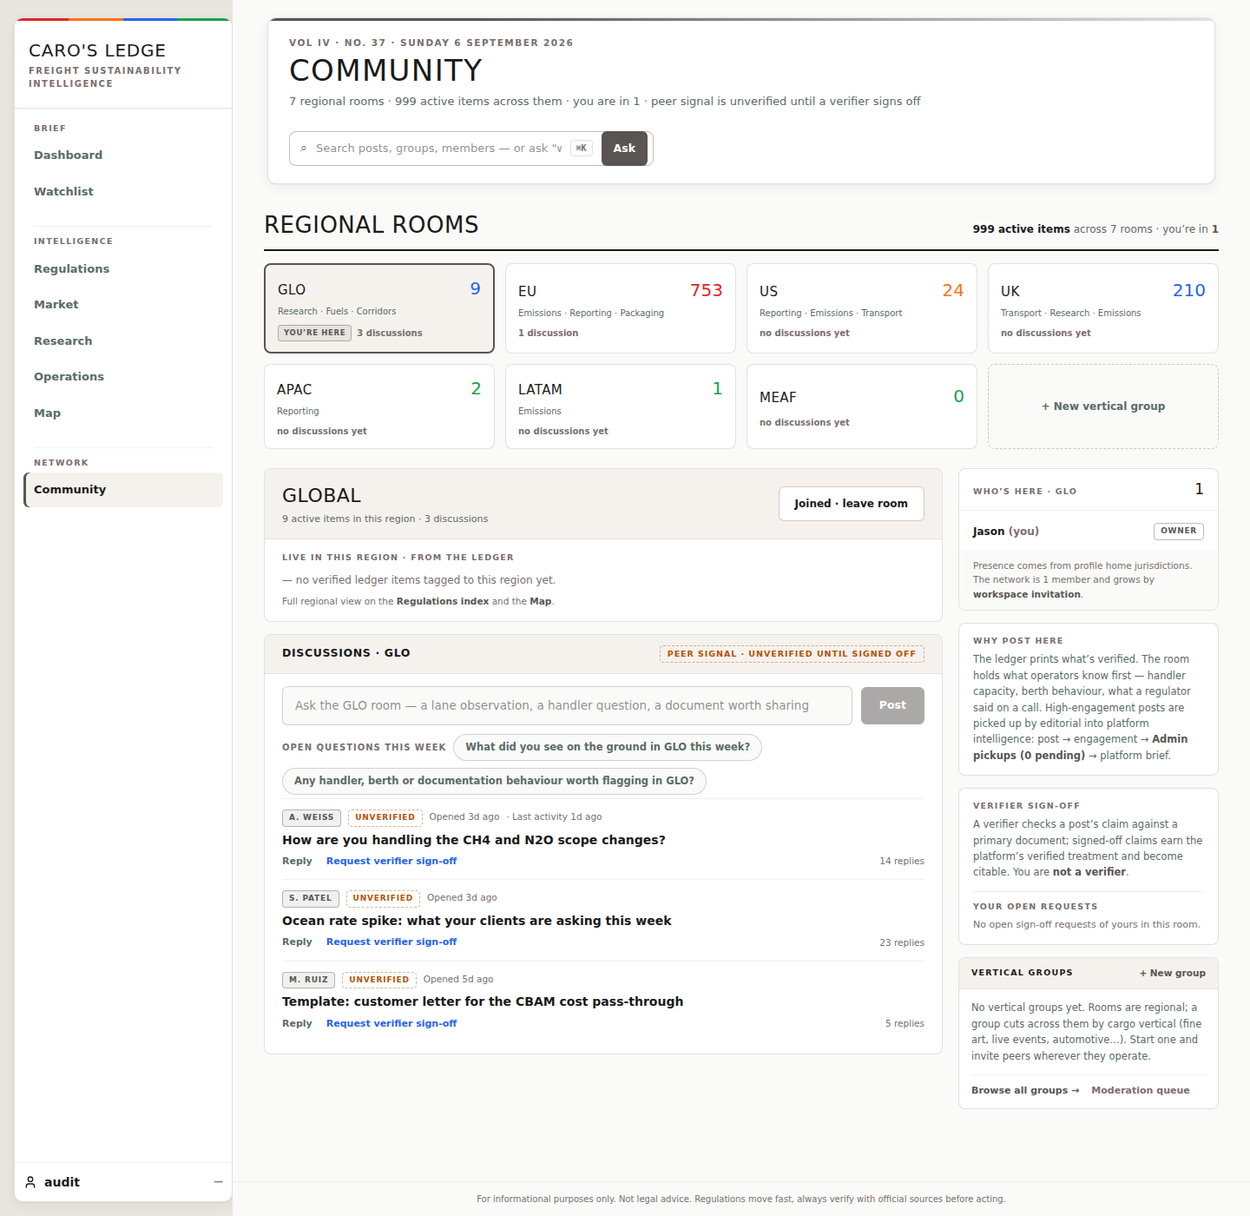
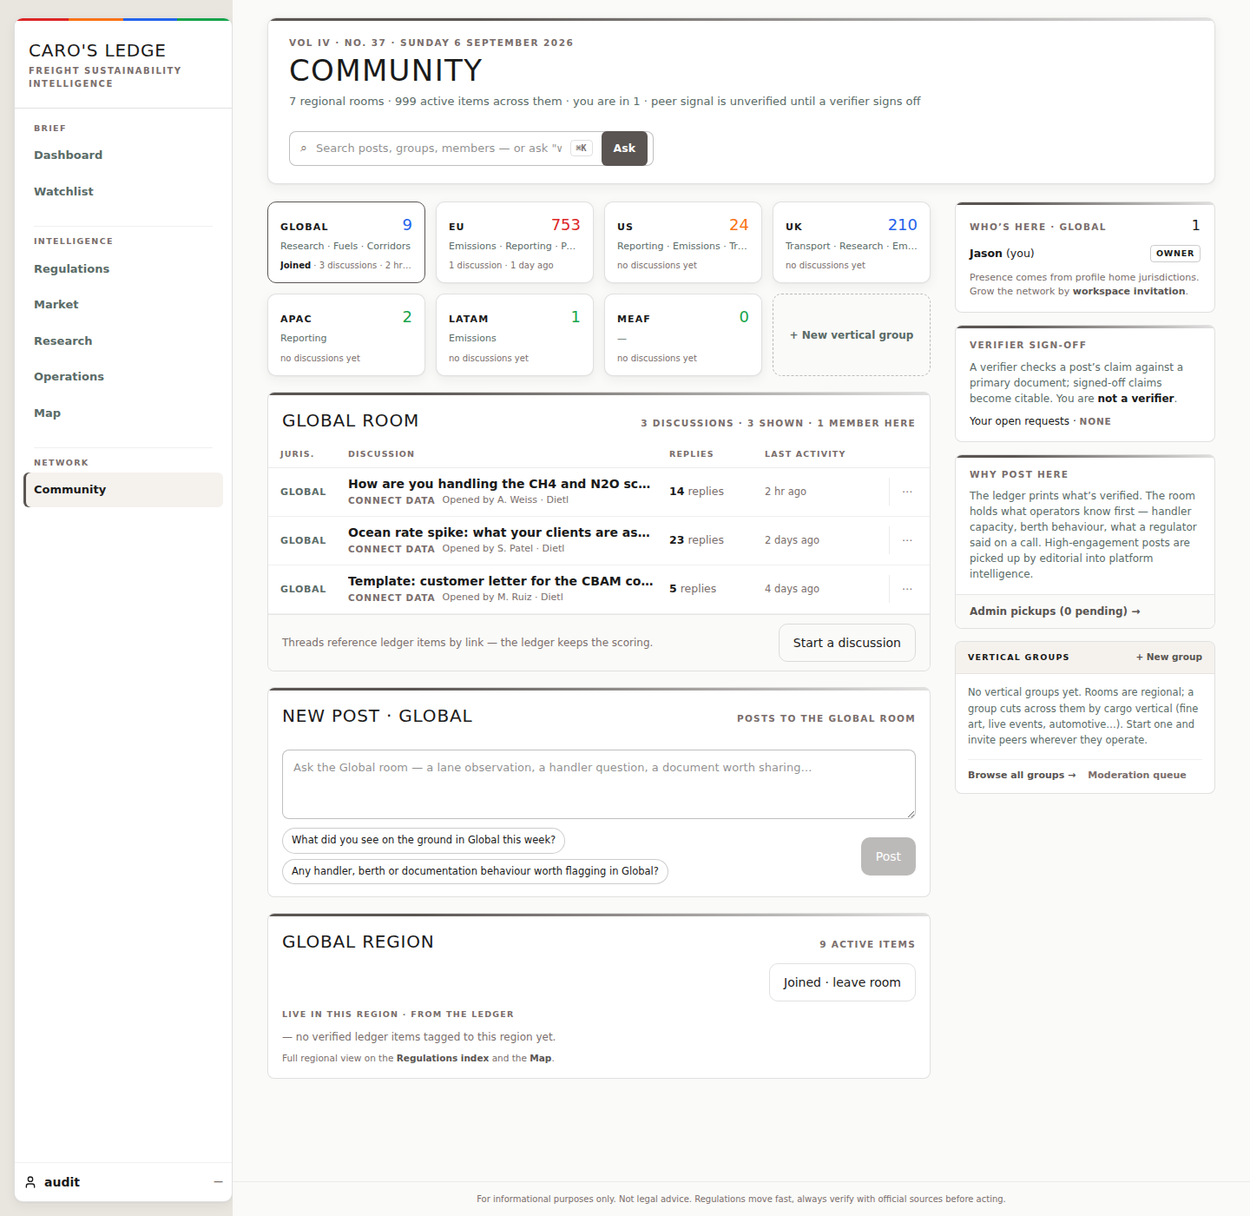
docs(community60): compose-12 spec rows, side-by-side, deviation and session log
The compose-12 spec grows from 8 checks to 46: every region the artboard draws,
in document order, with the exact strings where they are static; the table's
four column heads and its 30px header strip; the row's 56px box, its #post-<id>
anchor, its whole-row click target and its 44px overflow; the new-post card's
head, aside and placeholder; the rail's three cards in the artboard's order;
and a boundsCheck that no discussion-table cell escapes its row or overlaps a
sibling, which is the operator's own 2026-09-07 complaint class.

Forbids added for what must not come back: the REGIONAL ROOMS heading, a tile
labelled with the short key, a composer inside the room-index card, and the
per-card action bar.

Two first-draft spec rows asserted var(--fs-*)-derived font sizes. run-audit
mounts without the compiled app CSS, so those custom properties are undefined
there and a correct product measures the 16px fallback; the rows now assert the
literal values the same elements carry and say why.

Design audit: 60 specs, 1031 checks, 1031 MATCH.

(cherry picked from commit f789f42a5a8dad32f3ba49e7b2156e851e8ef631)
(cherry picked from commit e7ab5c5a4da718b65f04073028df86a6277c55b3)

Changed region(s): [[0.2188, 0.1536, 0.9688, 0.8907], [0.7812, 0.7986, 0.9688, 0.9214], [0.5312, 0.43, 0.5625, 0.4914]]

diff --git a/docs/design/handoff-2026-09-06/DEVIATION-LOG.md b/docs/design/handoff-2026-09-06/DEVIATION-LOG.md
@@ -310,3 +310,25 @@ logged here as a data-driven or deferred difference with the data path that was 
 | 2026-09-08 | Map (10), the rail LEGEND card has no sample column, SHARED-PART item, not fixed here | [CONFIRMED, tested this session, NOT FIXED] p10's LEGEND card lays out each row as `80px 1fr`: a drawn sample (the four-bar impact meter, the timeline dots, a T1 chip) beside its sentence. The shared `LegendRailCard` renders a definition list with no samples. The SAME card is drawn identically on artboards 02, 04, 06, 08 and 11, all owned by other lanes in this train, so changing its internals from a /map lane would land the same edit twice in the fold. Named for a shared-parts lane; using the shared card (rather than fixing a copy on /map) is what makes that one edit possible. | dc.html id="p10" LEGEND markup vs `ListSurfaceRailCards.tsx`'s `LegendRailCard`. | lane map60, 2026-09-08, needs one shared-parts lane to give `LegendRailCard` the artboard's 80px sample column for all six artboards at once. |
 | 2026-09-08 | Map (10), the fixture's counts and jurisdiction set are not the artboard's | [CONFIRMED, this session] The artboard shows 7 jurisdictions / 976 items (EU 392, Global 549, US 28, Latin America 3, UK 2, GB 1, China 1); the compose fixture carries 6 resources across 4 jurisdictions, so the register has 4 rows, the masthead reads 3 live, and the markers read 1 and 2. Sample data in the mock is never shipped; every figure on the page is derived from the data it is given. The register also has no "+ N more" remainder line here because the fixture is under the 12-row cap. | README: sample data in the mock is never shipped. | lane map60, 2026-09-08 |
 | 2026-09-08 | Harness, `detectBoundsViolations` gains `containmentOnly` | [CONFIRMED, tested this session] The geometric marker check needs the container half of the bounds assertion and NOT the sibling-overlap half: marker positions come from DATA (jurisdiction centroids), so two geographically close jurisdictions overlap by geography, the artboard itself draws its 2 and 392 markers all but touching. Added as an explicit per-check opt-in with its own adversarial test (`assertions.test.mjs`: overlap ignored, escape still reported); every grid and table caller leaves it unset and keeps both halves. It is not a general relaxation. | The fixture's own measured marker rects; dc.html id="p10". | lane map60, 2026-09-08 |
+
+## lane community60 (artboard 12, /community) — 2026-09-08
+
+| Date | Page / deviation | Detail | Source read | Who ruled |
+|---|---|---|---|---|
+| 2026-09-08 | Community (12) — the extra "REGIONAL ROOMS" heading above the tiles is removed | [CONFIRMED, tested this session] dc.html p12's content column opens with the tile grid; there is no heading and no "N active items across N rooms · you're in N" aside above it. The masthead dek already carries those figures ("7 regional rooms · 999 active items across them · you are in 7"). The heading and its aside are deleted rather than restyled. | dc.html id="p12", grepped verbatim this session; 12-community.png. | lane community60, 2026-09-08 |
+| 2026-09-08 | Community (12) — room tiles now show the room NAME, not the 3-char key | [CONFIRMED, tested this session] The tiles rendered `r.short` ("GLO"); the artboard draws GLOBAL / EU / US / UK / APAC / LATAM / MEAF, which is `r.name`. Tile type corrected to the artboard's 11px / .1em / uppercase / 800 with the Anton 18px count (was a 15px display-font label and a 20px count), and the count now passes through `format.ts`'s locale-pinned `formatNumber` (F36), so a four-digit room reads 1,135. | dc.html id="p12" tile markup, verbatim. | lane community60, 2026-09-08 |
+| 2026-09-08 | Community (12) — the discussion list became the artboard's table, on the shared RowTable | [CONFIRMED, tested this session] The build was a stacked card feed (author chip, unverified chip, opened/last-activity line, title, an action bar per card). dc.html p12 draws a TABLE: `grid-template-columns:64px 1fr 96px 120px 44px`, gap `0 14px`, padding `0 12px 0 14px`, a 30px header strip (JURIS. / DISCUSSION / REPLIES / LAST ACTIVITY, 9.5px / .12em / 700), 56px rows each with a bottom rule, and a trailing ⋯ cell. Built on `ui/RowTable` — the same anatomy artboard 13's admin tables use — EXTENDED ADDITIVELY rather than forked: a new optional `metrics` prop ({paddingLeft, rowMinHeight, ruleAfterLastRow}, defaulting to p13's 16/48/false) plus per-row `id`, `onActivate`, `activateLabel` and `below`. The whole row is the click target and is keyboard reachable; `RowTableOverflow` now stops propagation so the ⋯ button cannot also activate its row. | dc.html id="p12" table markup, verbatim; `ui/RowTable.tsx`. | lane community60, 2026-09-08 |
+| 2026-09-08 | Community (12) — the per-row QUESTION / PRACTICE / MARKET / TEMPLATE tag chip has no data path | [CONFIRMED, schema-read this session] `community_posts` (migration 030: id, group_id, parent_post_id, author_user_id, title, body, created_at, last_reply_at, reply_count, promoted_from_post_id, attribution) has no kind / topic / tag column, and no later migration adds one. The chip's slot renders the Absence convention (`<Absence reason="connect data"/>`) rather than a fabricated label or a silently empty cell. | migration 030_community_posts.sql, read this session. | lane community60, 2026-09-08 — needs a post-kind taxonomy before the chip can carry a real value. |
+| 2026-09-08 | Community (12) — the artboard's leading unread dot on two of four rows is not built | [CONFIRMED, searched this session] Rows 1 and 2 of p12's table carry a 6px ink dot and 700 weight; rows 3 and 4 carry neither. Nothing in the schema expresses per-user thread read state (`community_posts` has no last-seen column; `notifications.read_at` is per-notification, not per-thread), so the distinction cannot be computed. Every row renders at the artboard's unread-free weight (600) with no dot rather than a fabricated one. | migrations 030 + 032, read this session. | lane community60, 2026-09-08 — needs a per-user thread read-state path. |
+| 2026-09-08 | Community (12) — LAST ACTIVITY reads "2 hr ago" where the artboard reads "2 hours ago · M. Ruiz" | [CONFIRMED, tested this session] Two parts. (a) The app has exactly two relative-time vocabularies (`src/lib/relative-time.ts`: verbose `formatRelative`, compact `formatRelativeCompact`); the artboard's "2 hours ago" matches neither exactly. The verbose one is used, because inventing a third vocabulary for one column is the duplication rule 13 forbids. (b) The trailing "· M. Ruiz" is the LAST REPLIER; the page's post read selects `last_reply_at` but no last-replier id, and resolving one is a second query per room. Neither is fabricated. | `src/lib/relative-time.ts`; `src/app/community/page.tsx`'s posts read. | lane community60, 2026-09-08 |
+| 2026-09-08 | Community (12) — "Opened by A. Weiss · Dietl": the org name is now real | [CONFIRMED, tested this session] The row's sub-line needed the author's ORGANIZATION, which the page did not read. Added a bounded `organizations` read keyed on the distinct `org_id`s of the author set the profiles read already produced (fitness-allow F39, one page render's own row set) and threaded it as `ThreadVM.authorOrg`. An author whose org row is unreadable renders the author alone; nothing is invented. | dc.html id="p12" row sub-line, verbatim. | lane community60, 2026-09-08 |
+| 2026-09-08 | Community (12) — the composer became its own NEW POST card at the foot of the content column | [CONFIRMED, tested this session] The composer sat inside the discussions card, above the threads, as a single-line `<input>` with the starter chips below it. dc.html p12 draws a separate card after the room index: SectionRule, Anton head "NEW POST · GLOBAL" with the aside "POSTS TO THE GLOBAL ROOM", a 64px-min bordered box (radius 8, 1px rgba(0,0,0,.25)) carrying the artboard's placeholder, then a row with the two starter chips left and the Post button right. Built exactly so, with a `<textarea>` (the artboard's box is multi-line) and the shared `SectionRule`/`SectionHeading`/`Button`. "Start a discussion" in the room-index foot focuses it, so the foot control is real and not a second composer. | dc.html id="p12" new-post-card markup, verbatim. | lane community60, 2026-09-08 |
+| 2026-09-08 | Community (12) — the room header + "Live in this region" card moved to R7 placement | [CONFIRMED, tested this session] That card (room name, item/discussion counts, Join/leave, the ledger strip, the Regulations-index and Map links) sat between the tiles and the discussions, where the artboard's room index must go. Artboard 12 draws no such region. Per R7 it is neither deleted nor left in place: it moved to after the last designed region of its column, i.e. below the NEW POST card, unchanged in content. | R7; dc.html id="p12". | lane community60, 2026-09-08 |
+| 2026-09-08 | Community (12) — rail order is the artboard's: Who's here, Verifier sign-off, Why post here | [CONFIRMED, tested this session] The build had Who's here, Why post here, Verifier sign-off, Vertical groups. dc.html p12's rail is Who's here → Verifier sign-off → Why post here. NOTE: the dispatch's own wording named the order "WHY POST HERE, VERIFIER SIGN-OFF"; the artboard is the authority where the two disagree (SETUP), so the artboard's order is built. Vertical groups has no artboard region and sits after the three, per R7. Each of the three now carries the 5.1 SectionRule and the artboard's 10.5px / .12em / 700 / --ink-3 eyebrow. | dc.html id="p12" rail markup, verbatim; 12-community.png. | lane community60, 2026-09-08 |
+| 2026-09-08 | Community (12) — "Who's here" foot drops the live network-member count for the artboard's sentence | [CONFIRMED, tested this session] The build read "Presence comes from profile home jurisdictions. The network is 1 member and grows by workspace invitation."; the artboard's sentence is "Presence comes from profile home jurisdictions. Grow the network by workspace invitation." The artboard's exact string is used and the now-unused `networkMemberCount` prop and its page-side computation are deleted rather than left dormant (rule 13). The roster count the artboard DOES draw (the Anton figure at the card head) is unchanged and still live. | dc.html id="p12", verbatim. | lane community60, 2026-09-08 |
+| 2026-09-08 | Community (12) — "Why post here" keeps the artboard paragraph; the Admin-pickups link moves to the card foot | [CONFIRMED, tested this session] The build appended "post → engagement → Admin pickups (N pending) → platform brief" inside the artboard's own paragraph, which the artboard ends at "...picked up by editorial into platform intelligence." The paragraph is now the artboard's verbatim and the pickup queue — a real app feature with no artboard region — keeps its link as a `CardFoot` line (R7's card-foot precedent), one line, no wrap collision in the 300px rail. | dc.html id="p12", verbatim; R7. | lane community60, 2026-09-08 |
+| 2026-09-08 | Community (12) — "Your open requests · NONE" uses the absence TREATMENT, not the vocabulary | [CONFIRMED, this session] The artboard renders NONE in the small-caps absence type. NONE is a real zero, not a missing value, so the closed vocabulary (not in primary source / pending / unscored / connect data) cannot express it; `ABSENCE_TEXT_STYLE` — the treatment `Absence.tsx` exports for exactly this case — carries it. | README §0.4; `ui/Absence.tsx`'s own header. | lane community60, 2026-09-08 |
+| 2026-09-08 | Community (12) — unselected room tiles keep 12px top padding, not the artboard's 0 | [CONFIRMED, tested this session] p12's selected tile is `padding:12px 14px`; its six unselected siblings are `padding:0 14px 12px 14px`, which renders their name and count flush against the tile's top edge in the artboard image. The two are the same tile in the same grid, so the 0 is a mock artifact, not a design value; 12px 14px is used for all seven. Every other tile value (border 1px #5A5552 selected / 1px rgba(0,0,0,.12) + card shadow unselected, radius 10, the type scale, the 4px/6px sub-line offsets) is the artboard's. | dc.html id="p12" tile markup, both variants, read this session. | lane community60, 2026-09-08 |
+| 2026-09-08 | Community (12) — R8 holds: no thread page | [CONFIRMED, this session] The table is the room index. A row's click target expands the row IN PLACE (body, citations, sign-off state, and the reply/cite composers the ⋯ menu opens); the row also carries the `#post-<id>` id the rail's own sign-off links already pointed at, so those anchors still resolve. Reply / Cite source / Request verifier sign-off / Delete moved from a per-card action bar into the row's ⋯ menu (R7's row-overflow precedent) — none was deleted, so no write became unreachable. | R8; operator audit "the community thread page: unchanged and undesigned, do not invent". | lane community60, 2026-09-08 |
+| 2026-09-08 | Community (12) — the masthead command bar is below the title block, the artboard puts it beside it | [CONFIRMED, tested this session, NOT FIXED] p12's masthead is one row: VOL line + COMMUNITY + dek left, the command bar right. The shared `ui/Masthead` stacks the bar below the dek on every page, so its placeholder truncates earlier than the artboard's. That is shared-part geometry affecting all 17 artboards, not a /community region, and changing it here would change every page. Named, not touched. | dc.html id="p12" masthead markup vs `ui/Masthead.tsx`. | lane community60, 2026-09-08 — needs a Masthead-scoped lane. |
+| 2026-09-08 | Root fix, `relative-time.ts` formatters take the server instant | [CONFIRMED, tested this session] LAST ACTIVITY is relative time rendered inside a `"use client"` component, the exact hydration hazard `src/lib/render-now.ts` documents. Both `formatRelative` and `formatRelativeCompact` gained an OPTIONAL `now` parameter (Date or epoch ms); `/community` passes `renderNowIso()` down as `nowIso` and `CommunityRooms` derives every relative string from it. Every pre-existing caller is unchanged and still reads the host clock. `components/community` is outside the render-clock scanner's SCOPE list, so this is a threading, not an annotation. | `src/lib/render-now.ts`'s own header; `src/lib/render-clock.npmtest.mjs`'s SCOPE. | lane community60, 2026-09-08 |

diff --git a/docs/ops/session-log.md b/docs/ops/session-log.md
@@ -12706,3 +12706,94 @@ composition rows); rendering guard **PASS** (11 fixtures, 431 checks, 7 SM + 12 
 **0 fail**, exit 0 (the known "kill switch ON but no DB creds" failure did not reproduce);
 `next build --webpack` exit 0 with no `.env.local`. Side-by-side regenerated from the folded code
 and READ beside the artboard: `docs/design/handoff-2026-09-06/built/compose-10-map.png`.
+
+## Addendum 86, postscript 15: lane community60 — artboard 12 (/community) composed (2026-09-08, lane COMMUNITY-60)
+
+Train 60, page-composition lane, one artboard: 12 `/community`, named in postscript 14's fold report
+as "the least-composed page". Six listed differences, all closed, plus the four the region table
+turned up on the way.
+
+**Region table, before and after.** Left column top to bottom, then the rail.
+
+| # | Artboard 12 region | Before | After |
+|---|---|---|---|
+| L0 | (none) | `<h2>REGIONAL ROOMS</h2>` + "N active items across N rooms · you're in N" | REMOVED; the figures are the masthead dek's, which already carries them |
+| L1 | Tile grid, 4 fixed columns, 7 rooms + dashed "+ New vertical group" | present, but tiles read the 3-char key ("GLO") in a 15px display font with a 20px count | tiles read the room NAME at 11px / .1em / uppercase / 800; count Anton 18px through `formatNumber`; sub-line "**Joined** · N discussions · <last activity>" or "no discussions yet" |
+| L2 | (none) | room header card: name, counts, Join/leave, "Live in this region" ledger strip | MOVED to L5 (R7) |
+| L3 | `<ROOM> ROOM` card: SectionRule, Anton head + "N DISCUSSIONS · N SHOWN · N MEMBER HERE", table JURIS./DISCUSSION/REPLIES/LAST ACTIVITY + ⋯, foot strip with "Start a discussion" | stacked card feed with an inline composer and a per-card action bar; no head aside, no columns, no foot | the artboard's table on the shared `ui/RowTable` (64px / minmax(0,1fr) / 96px / 120px / 44px, 30px header, 56px rows, trailing rule), shared `SectionRule` + `SectionHeading` + `CardFoot`; whole row is the click target |
+| L4 | `NEW POST · <ROOM>` card with "POSTS TO THE <ROOM> ROOM" aside, 64px box, starter chips left, Post right | did not exist (the composer lived inside L3) | built as drawn; "Start a discussion" in L3's foot focuses it |
+| L5 | (none) | — | the L2 card, unchanged in content, in R7's "after the last designed region of the column" slot |
+| R1 | WHO'S HERE · <ROOM>, Anton count, roster rows with OWNER, foot sentence | present, but the foot read "The network is N members and grows by…" | artboard's sentence verbatim; `networkMemberCount` prop and its page-side computation deleted |
+| R2 | VERIFIER SIGN-OFF, the sentence, "Your open requests · NONE" | THIRD in the rail; 9.5px/.13em eyebrow; no SectionRule; open-requests as a bordered sub-section | SECOND, as drawn; SectionRule; 10.5px/.12em/700 eyebrow; the artboard's one-line form |
+| R3 | WHY POST HERE paragraph | SECOND in the rail; paragraph continued into "post → engagement → Admin pickups (N) → platform brief" | THIRD, as drawn; paragraph is the artboard's verbatim; the pickups link is a `CardFoot` line (R7) |
+| R4 | (none) | VERTICAL GROUPS card | unchanged, still last (R7) |
+
+**Shared parts extended, additively, never forked.** `ui/RowTable` gained an optional `metrics`
+prop (`{paddingLeft, rowMinHeight, ruleAfterLastRow}`, defaulting to artboard 13's 16 / 48 / false)
+and per-row `id` / `onActivate` / `activateLabel` / `below`; `RowTableOverflow`'s button now stops
+propagation so it cannot also fire the row it sits in. `src/lib/relative-time.ts`'s two formatters
+gained an optional `now` instant. No other lane's file changed.
+
+**What R8 required, and what it got.** The thread page is NOT built. The table is the room index; a
+row expands in place, and it carries the `#post-<id>` id the rail's own sign-off links already
+pointed at, so no anchor broke. Reply / Cite source / Request verifier sign-off / Delete moved from
+the deleted per-card action bar into the row's ⋯ menu (R7's row-overflow precedent) — every write
+stayed reachable, no control became dead (ruling 1.1).
+
+**Absence, not invention.** Two artboard values have no data path and are logged with the schema
+read that proves it: the per-row QUESTION / PRACTICE / MARKET / TEMPLATE tag chip (`community_posts`,
+migration 030, has no kind/topic/tag column) renders `<Absence reason="connect data"/>`; the leading
+unread dot on two of the artboard's four rows has no per-user thread read state anywhere in the
+schema and is not drawn. The org name in "Opened by A. Weiss · Dietl" went the other way — it is now
+REAL, via a bounded `organizations` read on the author set the page already fetched.
+
+**Hydration.** LAST ACTIVITY is relative time inside a `"use client"` component, `render-now.ts`'s
+documented hazard. `/community` now passes `renderNowIso()` down as `nowIso` and every relative
+string derives from it. `components/community` is outside `render-clock.npmtest.mjs`'s SCOPE list, so
+this is a threading, not an annotation — an annotation would have been a claim it is safe.
+
+**Test updated to the product.** `ProvisionalReviewTable.npmtest.mjs` pinned RowTable's row geometry
+as literals (`minHeight: 48,`, `padding: "0 12px 0 16px"`). The invariant is unchanged — that table
+passes no `metrics` — so the assertions now read the DEFAULTS, plus a new one that the admin table
+passes no metrics at all. Two new tests were added rather than none: `ui/RowTable.npmtest.mjs` (the
+p13 defaults survive the extension; the overflow control's 44px box and its stopPropagation) and
+`community/CommunityRooms.composition.npmtest.mjs` (the regions, the shared parts, both R7
+placements, the rail order, the server instant). `lib/relative-time.npmtest.mjs` runs the real
+functions through jiti rather than grepping them, because the point of the new parameter is the
+value it produces.
+
+**Visual pass.** `built/compose-12-community-built.png` recaptured and
+`built/compose-12-community.png` regenerated through `compose-composite.mjs`, then read beside
+`screens/12-community.png`. No overflow, no cell collision, no orphan line at 1440. Remaining
+differences are the logged ones (relative-time vocabulary, the absent tag chip and unread dot, the
+fixture's three threads against the artboard's four) plus one that is NOT this page's: the shared
+`ui/Masthead` stacks its command bar below the dek where the artboard puts it beside the title, which
+is true of all 17 artboards and belongs to a Masthead-scoped lane.
+
+**UX compliance**: this lane touched `.tsx` under `fsi-app/src` — `components/ui/RowTable.tsx`,
+`components/community/CommunityRooms.tsx`, `app/community/page.tsx`. Every new interactive element
+meets the 44px minimum: the table row is 56px and is the single click target for its thread (whole
+row, `role="button"`, `tabIndex=0`, Enter/Space); the ⋯ control is a full 44x44 button whose VISIBLE
+parts are the artboard's 32px divider and 28px glyph; every menu item is a 44px row; Post, Reply,
+Start a discussion and Join/leave carry `min-h-[44px]`; the cite-picker's per-item buttons are 44px;
+the "Live in this region" links are 44px. Nothing gained a hover-only affordance. Rendering guard
+PASS with no new failures, including the community-surface UX smoke spec at 375 and the bounds/
+overlap assertions this lane added to the compose-12 spec (no discussion-table cell escapes its row
+or overlaps a sibling — the operator's own 2026-09-07 complaint class, now measured on this page).
+
+**Gates** (this container; the coordinator lands): `tsc --noEmit` clean; fitness runner 33/33, **0
+violations**; rendering guard **PASS** (11 fixtures, 431 checks, 7 SM + 12 UX smoke specs, 83 + 216
+checks); design audit **60 specs, 1031 checks, 1031 MATCH**, 0 MISMATCH / 0 NOT BUILT / 0 NOT IN SPEC
+(compose-12 grew from 8 checks to 46); CI npmtest glob **819/819 PASS** (798 before, +21 from this
+lane's three new files); `run-test-suite.sh` 5917 tests, **5912 pass, 0 fail**, 5 skipped, exit 0
+(the known "kill switch ON but no DB creds" failure did not reproduce); `override-check` exit 0, no
+drift; `invariant-coverage.mjs` PASS (119 invariants + 63 doctrines); `next build --webpack` exit 0
+with no `.env.local`.
+
+**One harness note worth carrying forward.** `run-audit.mjs` mounts its page WITHOUT the compiled
+app CSS (unlike `capture-compose-page.mjs`, which injects it), so `theme.css`'s custom properties are
+undefined there and any spec asserting a `var(--fs-*)`-derived font-size measures the 16px fallback
+and reports a MISMATCH against a correct product. Two of this lane's first-draft spec rows hit it.
+The rows now assert the literal values the same elements carry and say why the size is not among
+them; the alternative (injecting the CSS into the audit page) would change what all 60 specs measure
+and is a harness decision, not a lane's.
